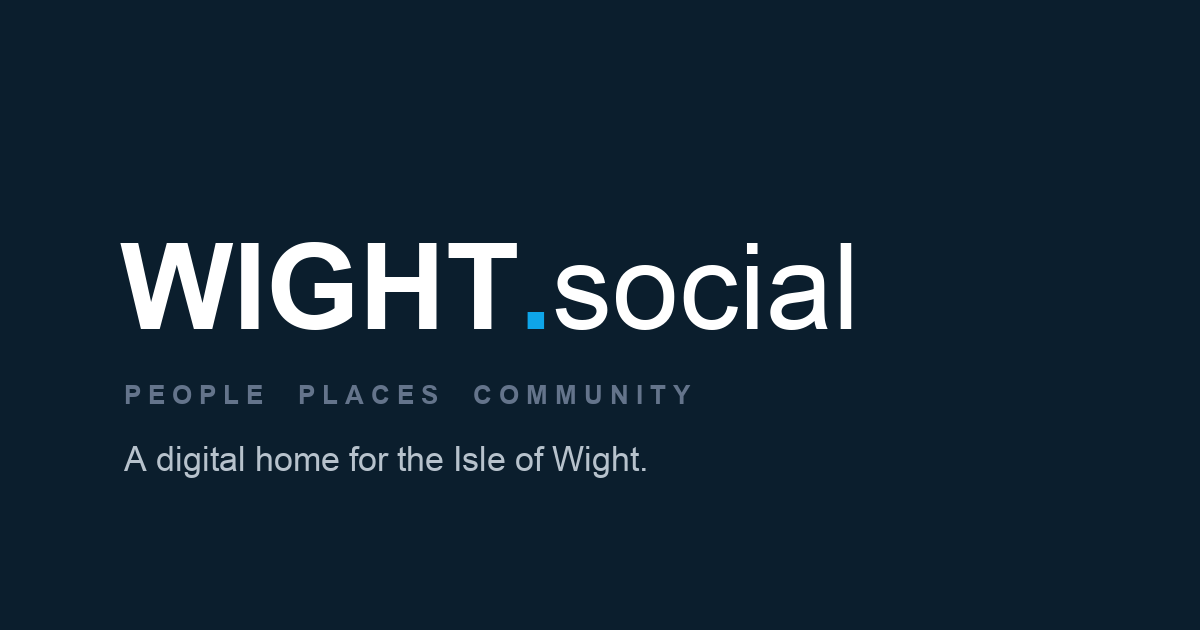
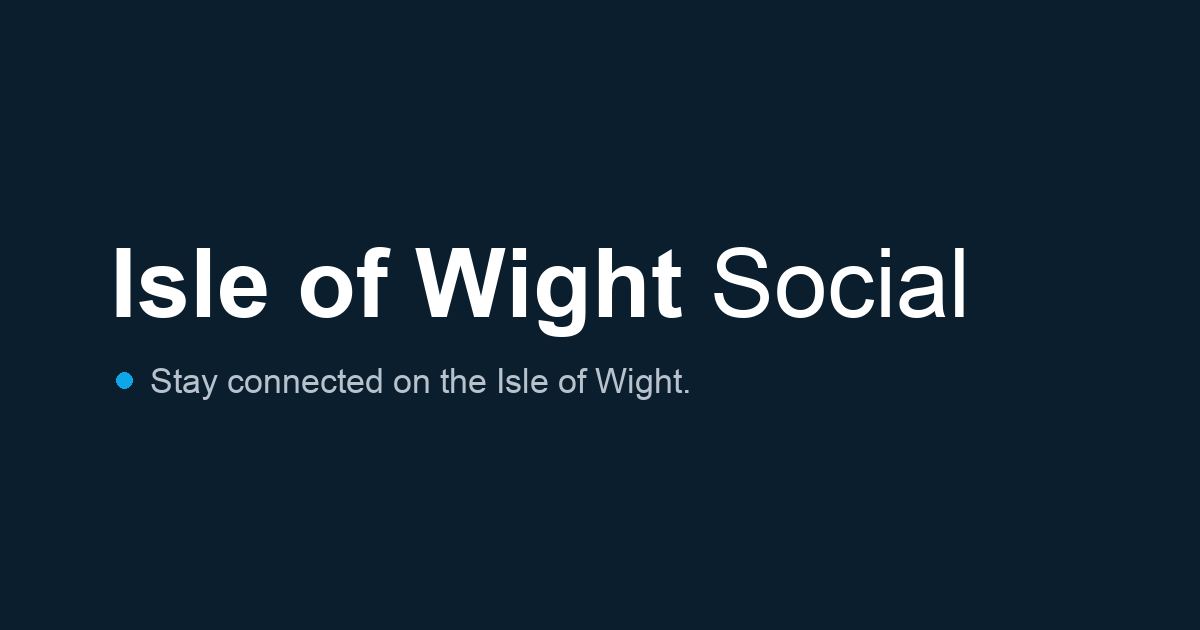
Name reads Isle of Wight Social across the wordmark, titles and share cards

Changed region(s): [[0.0925, 0.3619, 0.8017, 0.5429], [0.0925, 0.573, 0.5858, 0.6635], [0.0925, 0.6937, 0.555, 0.754]]

diff --git a/components/SideNav.tsx b/components/SideNav.tsx
@@ -289,7 +289,7 @@ export function SideNav({ collapsed, onToggle }: SideNavProps) {
               onPress={() => router.push('/(tabs)')}
               hitSlop={8}
               accessibilityRole="link"
-              accessibilityLabel="Wight.social home"
+              accessibilityLabel="Isle of Wight Social home"
             >
               {collapsed ? (
                 // Bulb mark only (matches the favicon). The source is a square
@@ -299,7 +299,7 @@ export function SideNav({ collapsed, onToggle }: SideNavProps) {
                   source={isDark ? BULB_DARK : BULB}
                   style={{ width: 40, height: 40 }}
                   contentFit="contain"
-                  accessibilityLabel="Wight.social"
+                  accessibilityLabel="Isle of Wight Social"
                 />
               ) : (
                 // Expanded: full Minds wordmark logo, matched to the theme.
@@ -308,7 +308,7 @@ export function SideNav({ collapsed, onToggle }: SideNavProps) {
                   source={isDark ? LOGO_DARK : LOGO_LIGHT}
                   style={{ width: 210, height: 50 }}
                   contentFit="contain"
-                  accessibilityLabel="Wight.social"
+                  accessibilityLabel="Isle of Wight Social"
                 />
               )}
             </Pressable>

diff --git a/app/index.tsx b/app/index.tsx
@@ -230,7 +230,7 @@ function AuthPolicyLinks() {
   );
   return (
     <View
-      accessibilityLabel="Wight.social policies"
+      accessibilityLabel="Isle of Wight Social policies"
       style={{ flexDirection: 'row', flexWrap: 'wrap', justifyContent: 'center', alignItems: 'center', gap: 4, marginTop: spacing.xl, maxWidth: 360 }}
     >
       <Text variant="caption" color={colors.textMuted}>By signing in you agree to the</Text>
@@ -388,7 +388,7 @@ export default function LandingScreen() {
   if (isLoading) {
     return (
       <View style={{ flex: 1, backgroundColor: '#08080a', alignItems: 'center', justifyContent: 'center' }}>
-        <Image source={SPLASH_MARK} style={{ width: 200, height: 200 }} contentFit="contain" accessibilityLabel="Wight.social" />
+        <Image source={SPLASH_MARK} style={{ width: 200, height: 200 }} contentFit="contain" accessibilityLabel="Isle of Wight Social" />
       </View>
     );
   }
@@ -1199,7 +1199,7 @@ export default function LandingScreen() {
               marginBottom: 0,
             }}
             contentFit="contain"
-            accessibilityLabel="Wight.social"
+            accessibilityLabel="Isle of Wight Social"
             onLoad={revealHero}
             onError={revealHero}
           />

diff --git a/app/+html.tsx b/app/+html.tsx
@@ -17,7 +17,7 @@ export default function Root({ children }: { children: React.ReactNode }) {
         <meta charSet="utf-8" />
         <meta httpEquiv="X-UA-Compatible" content="IE=edge" />
         <meta name="viewport" content="width=device-width, initial-scale=1, shrink-to-fit=no" />
-        <title>Wight.social</title>
+        <title>Isle of Wight Social</title>
         <meta name="description" content={OG_DESCRIPTION} />
         <link rel="icon" href="/favicon.ico" />
 
@@ -31,7 +31,7 @@ export default function Root({ children }: { children: React.ReactNode }) {
 
         {/* Open Graph — Signal, iMessage, Slack, Facebook */}
         <meta property="og:type" content="website" />
-        <meta property="og:site_name" content="Wight.social" />
+        <meta property="og:site_name" content="Isle of Wight Social" />
         <meta property="og:title" content={OG_TITLE} />
         <meta property="og:description" content={OG_DESCRIPTION} />
         <meta property="og:url" content={SITE_ORIGIN} />

diff --git a/components/Header.tsx b/components/Header.tsx
@@ -122,7 +122,7 @@ export function Header({ showBack, title }: Props) {
           <Pressable
             hitSlop={10}
             accessibilityRole="link"
-            accessibilityLabel="Wight.social home"
+            accessibilityLabel="Isle of Wight Social home"
             onPress={() => {
               const onHome = pathname === '/' || pathname === '' || pathname === '/index';
               if (onHome) emitHomeScrollToTop();
@@ -135,7 +135,7 @@ export function Header({ showBack, title }: Props) {
               // Legacy Minds lockup is 2.6:1 (bulb + lowercase wordmark), so 32 tall = 83 wide.
               style={{ width: 140, height: 34 }}
               contentFit="contain"
-              accessibilityLabel="Wight.social, go home"
+              accessibilityLabel="Isle of Wight Social, go home"
             />
           </Pressable>
         </View>

diff --git a/components/SignedOutFeed.tsx b/components/SignedOutFeed.tsx
@@ -25,7 +25,7 @@ export function SignedOutFeed({ returnTo }: { returnTo?: string }) {
   const header = (
     <View style={{ paddingHorizontal: spacing.xl, paddingTop: spacing.lg, paddingBottom: spacing.md, gap: spacing.sm }}>
       <View style={{ backgroundColor: colors.surface, borderWidth: 0.5, borderColor: colors.borderSubtle, borderRadius: radius.lg, padding: spacing.lg, gap: spacing.sm }}>
-        <Text variant="h3" color={colors.text}>You are looking at Wight.social</Text>
+        <Text variant="h3" color={colors.text}>You are looking at Isle of Wight Social</Text>
         <Text variant="body" color={colors.textSecondary}>
           The newest public posts, live. Sign in to vote, reply, remind, follow people and join groups.
         </Text>

diff --git a/app/community/[id].tsx b/app/community/[id].tsx
@@ -35,7 +35,7 @@ export default function CommunityDetailScreen() {
   const cachedCommunity = getCached(`community:${id}`);
   const cachedPosts = getCached(`community-posts:${id}`);
   const [community, setCommunity] = React.useState<any>(cachedCommunity || null);
-  usePageTitle(community?.name ? `${community.name} — Wight.social` : null);
+  usePageTitle(community?.name ? `${community.name} — Isle of Wight Social` : null);
   const [posts, setPosts] = React.useState<any[]>(cachedPosts || []);
   const [loading, setLoading] = React.useState(!cachedCommunity);
   const [communityLoadError, setCommunityLoadError] = React.useState<'not_found' | 'temporary' | null>(null);

diff --git a/components/PostCard.tsx b/components/PostCard.tsx
@@ -1482,7 +1482,7 @@ export const PostCard = React.memo(function PostCard({
                     try {
                       if (Platform.OS === 'web' && typeof navigator !== 'undefined') {
                         if (navigator.share) {
-                          await navigator.share({ title: post.title || 'Post on Wight.social', url });
+                          await navigator.share({ title: post.title || 'Post on Isle of Wight Social', url });
                         } else if (navigator.clipboard) {
                           await navigator.clipboard.writeText(url);
                           toast.show('Link copied');

diff --git a/app/post/[id].tsx b/app/post/[id].tsx
@@ -49,7 +49,7 @@ export default function PostDetailScreen() {
   const postAuthor =
     post?.author?.name || post?.author?.username || post?.user?.name || post?.user?.username;
   usePageTitle(
-    post ? (postTitle(post) || (postAuthor ? `${postAuthor} on Wight.social` : 'Post — Wight.social')) : null,
+    post ? (postTitle(post) || (postAuthor ? `${postAuthor} on Isle of Wight Social` : 'Post — Isle of Wight Social')) : null,
   );
   // "More like this" — semantically related posts so the page never dead-ends.
   const { posts: similar, loading: similarLoading } = useSimilarPosts(id, 10);

diff --git a/app/community/manage/[id].tsx b/app/community/manage/[id].tsx
@@ -203,7 +203,7 @@ export default function ManageCommunityScreen() {
         await navigator.clipboard.writeText(link);
         showToast('Invite link copied');
       } else {
-        await Share.share({ title: `Join ${community.name} on Wight.social`, message: `Join ${community.name} on Wight.social: ${link}`, url: link });
+        await Share.share({ title: `Join ${community.name} on Isle of Wight Social`, message: `Join ${community.name} on Isle of Wight Social: ${link}`, url: link });
       }
     } catch (e: any) {
       showToast(e?.message || 'Could not make an invite link', 'error');

diff --git a/app/settings.tsx b/app/settings.tsx
@@ -942,7 +942,7 @@ export default function SettingsScreen() {
 
   const versionFooter = (
     <View style={{ alignItems: 'center', gap: 2, paddingTop: spacing.xl }}>
-      <Text variant="bodyMedium" color={colors.textSecondary}>Wight.social</Text>
+      <Text variant="bodyMedium" color={colors.textSecondary}>Isle of Wight Social</Text>
       <Text variant="caption" color={colors.textMuted}>Built on Recursiv · Powered by open source</Text>
       {/* Real native version + the OTA update actually RUNNING on this
           device. The short update id is the ground truth for "did my phone

diff --git a/app/auth/pick-username.tsx b/app/auth/pick-username.tsx
@@ -113,7 +113,7 @@ export default function PickUsernameScreen() {
         <View style={{ alignItems: 'center', gap: spacing.md }}>
           <Text variant="h2" color={colors.text} align="center">Pick your username</Text>
           <Text variant="body" color={colors.textSecondary} align="center" style={{ maxWidth: 320, lineHeight: 22 }}>
-            This is how people find you on Wight.social. You can change it later.
+            This is how people find you on Isle of Wight Social. You can change it later.
           </Text>
         </View>
 

diff --git a/components/SharePostSheet.tsx b/components/SharePostSheet.tsx
@@ -119,7 +119,7 @@ export function SharePostSheet({ visible, post, onClose }: { visible: boolean; p
   const sharePostExternally = React.useCallback(async () => {
     try {
       if (Platform.OS === 'web' && typeof navigator !== 'undefined' && navigator.share) {
-        await navigator.share({ title: post?.title || 'Post on Wight.social', url: postUrl });
+        await navigator.share({ title: post?.title || 'Post on Isle of Wight Social', url: postUrl });
       } else {
         await Share.share({ message: postUrl, url: postUrl });
       }
